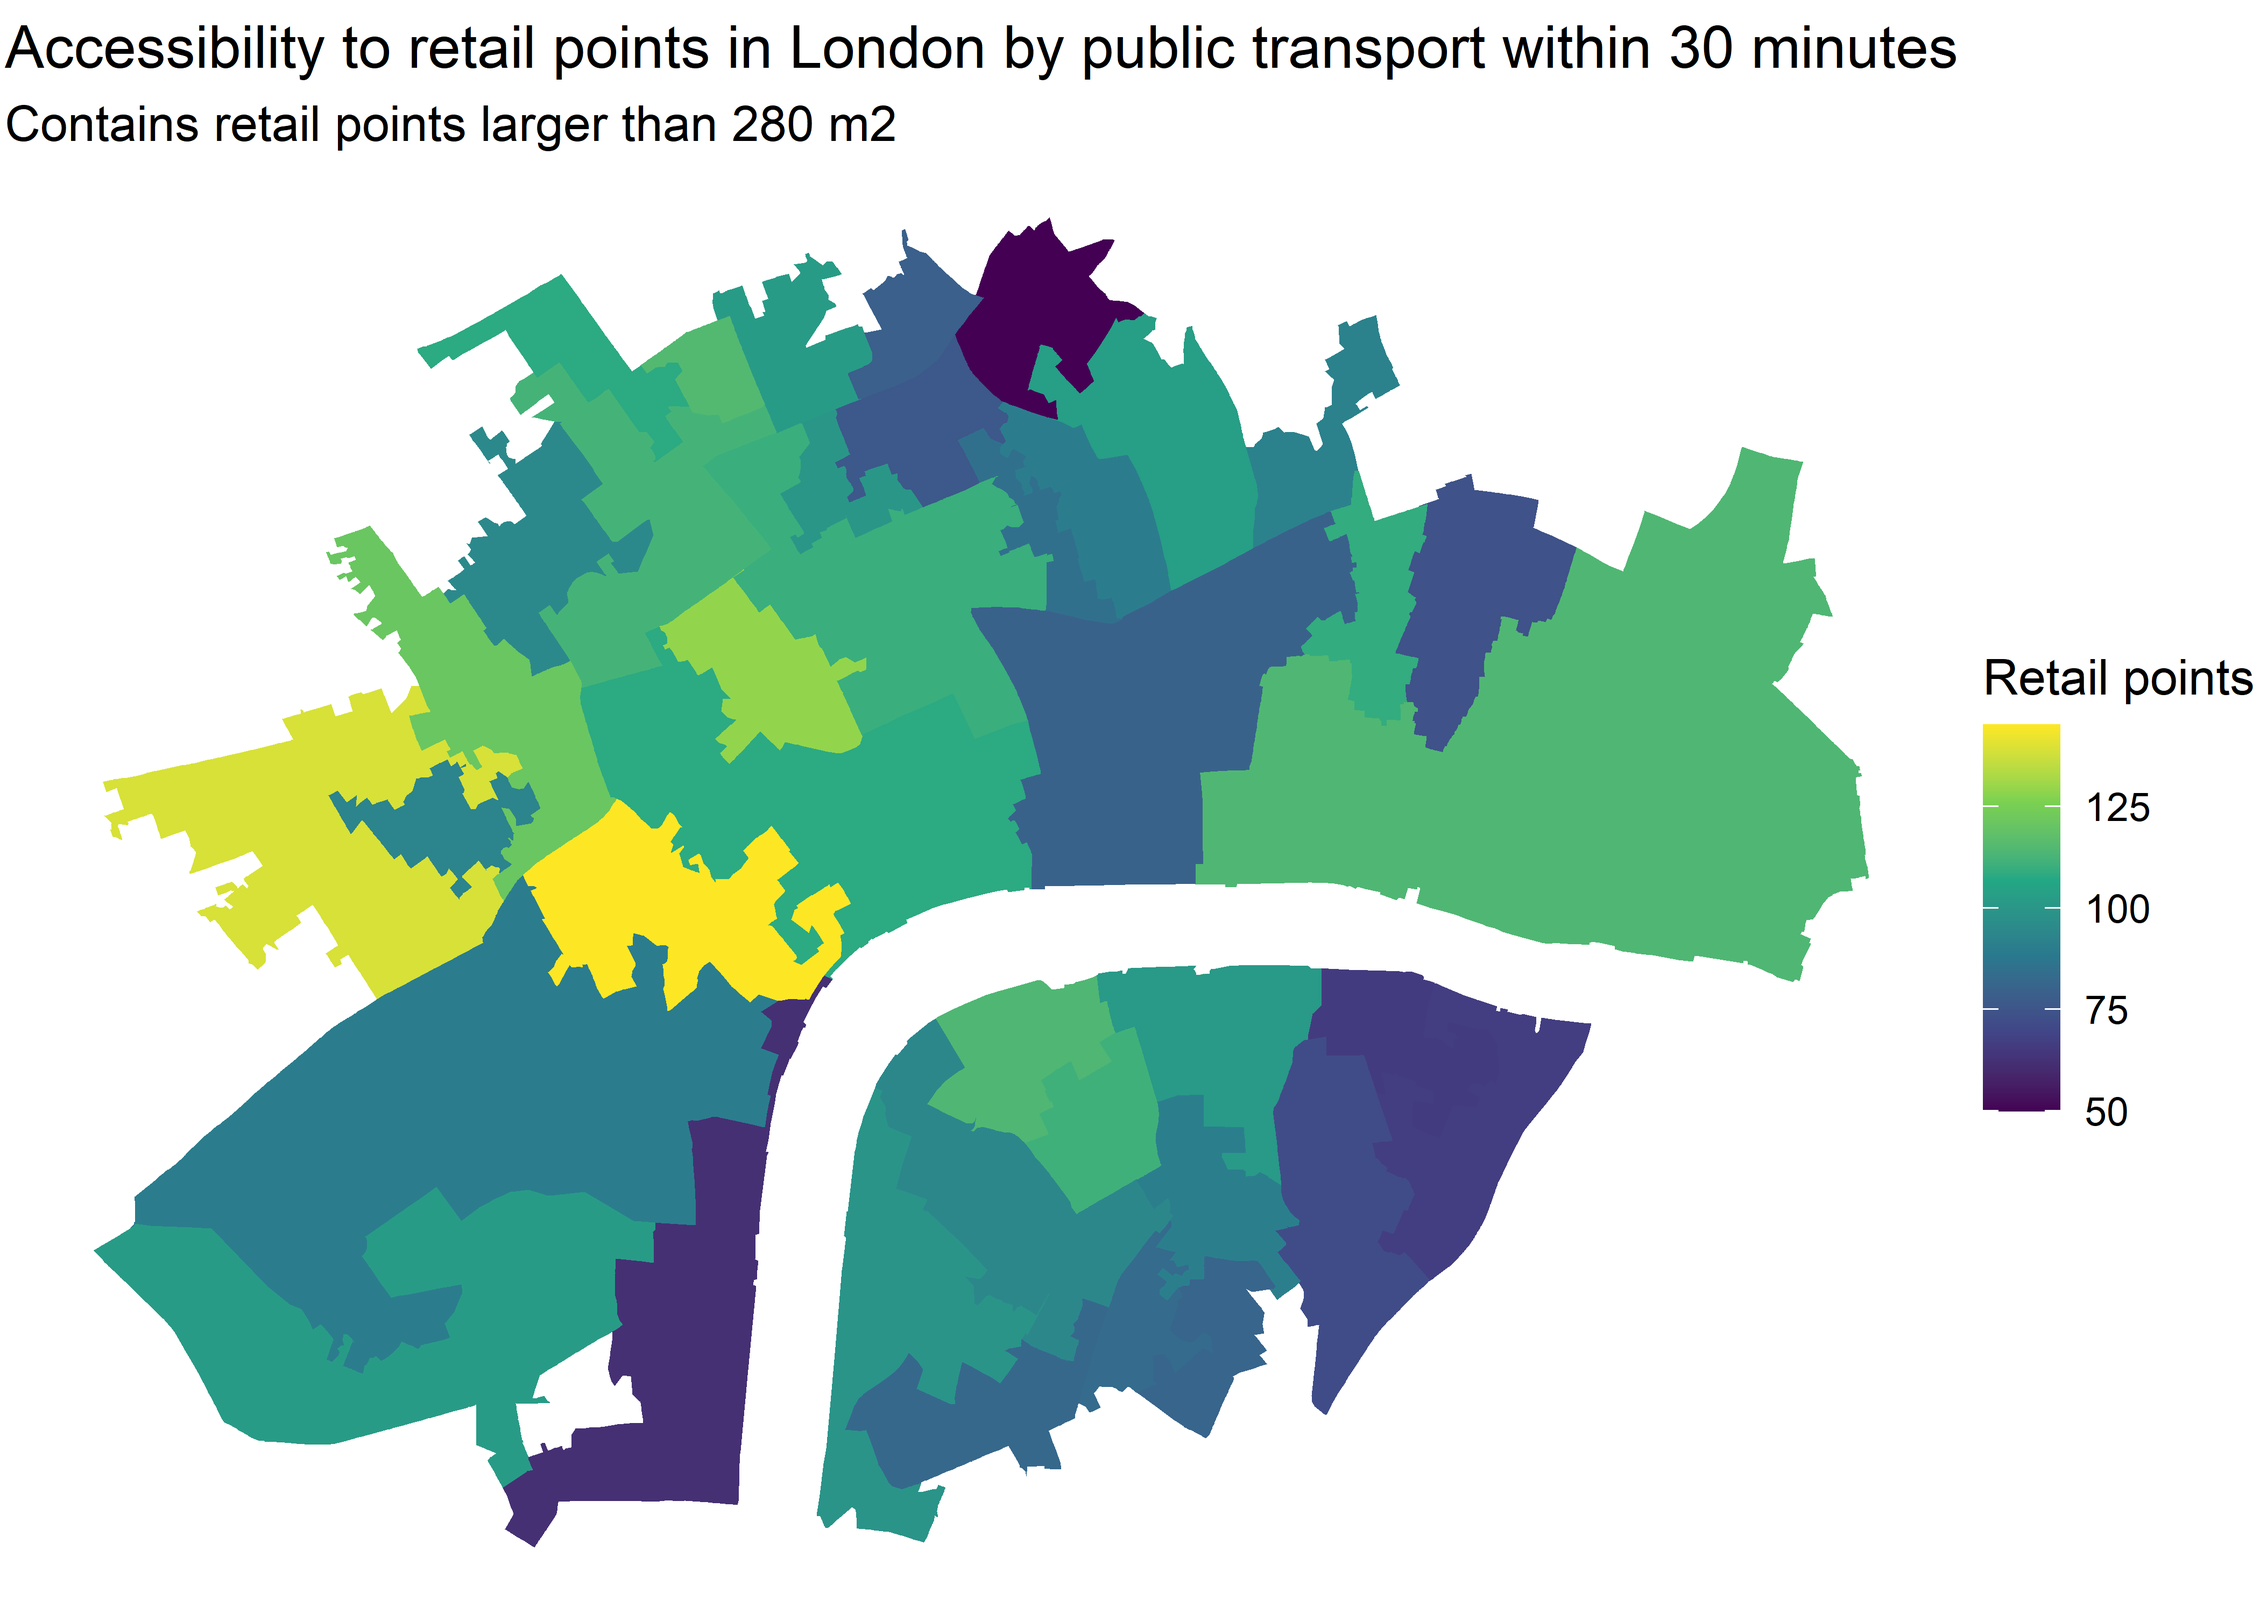
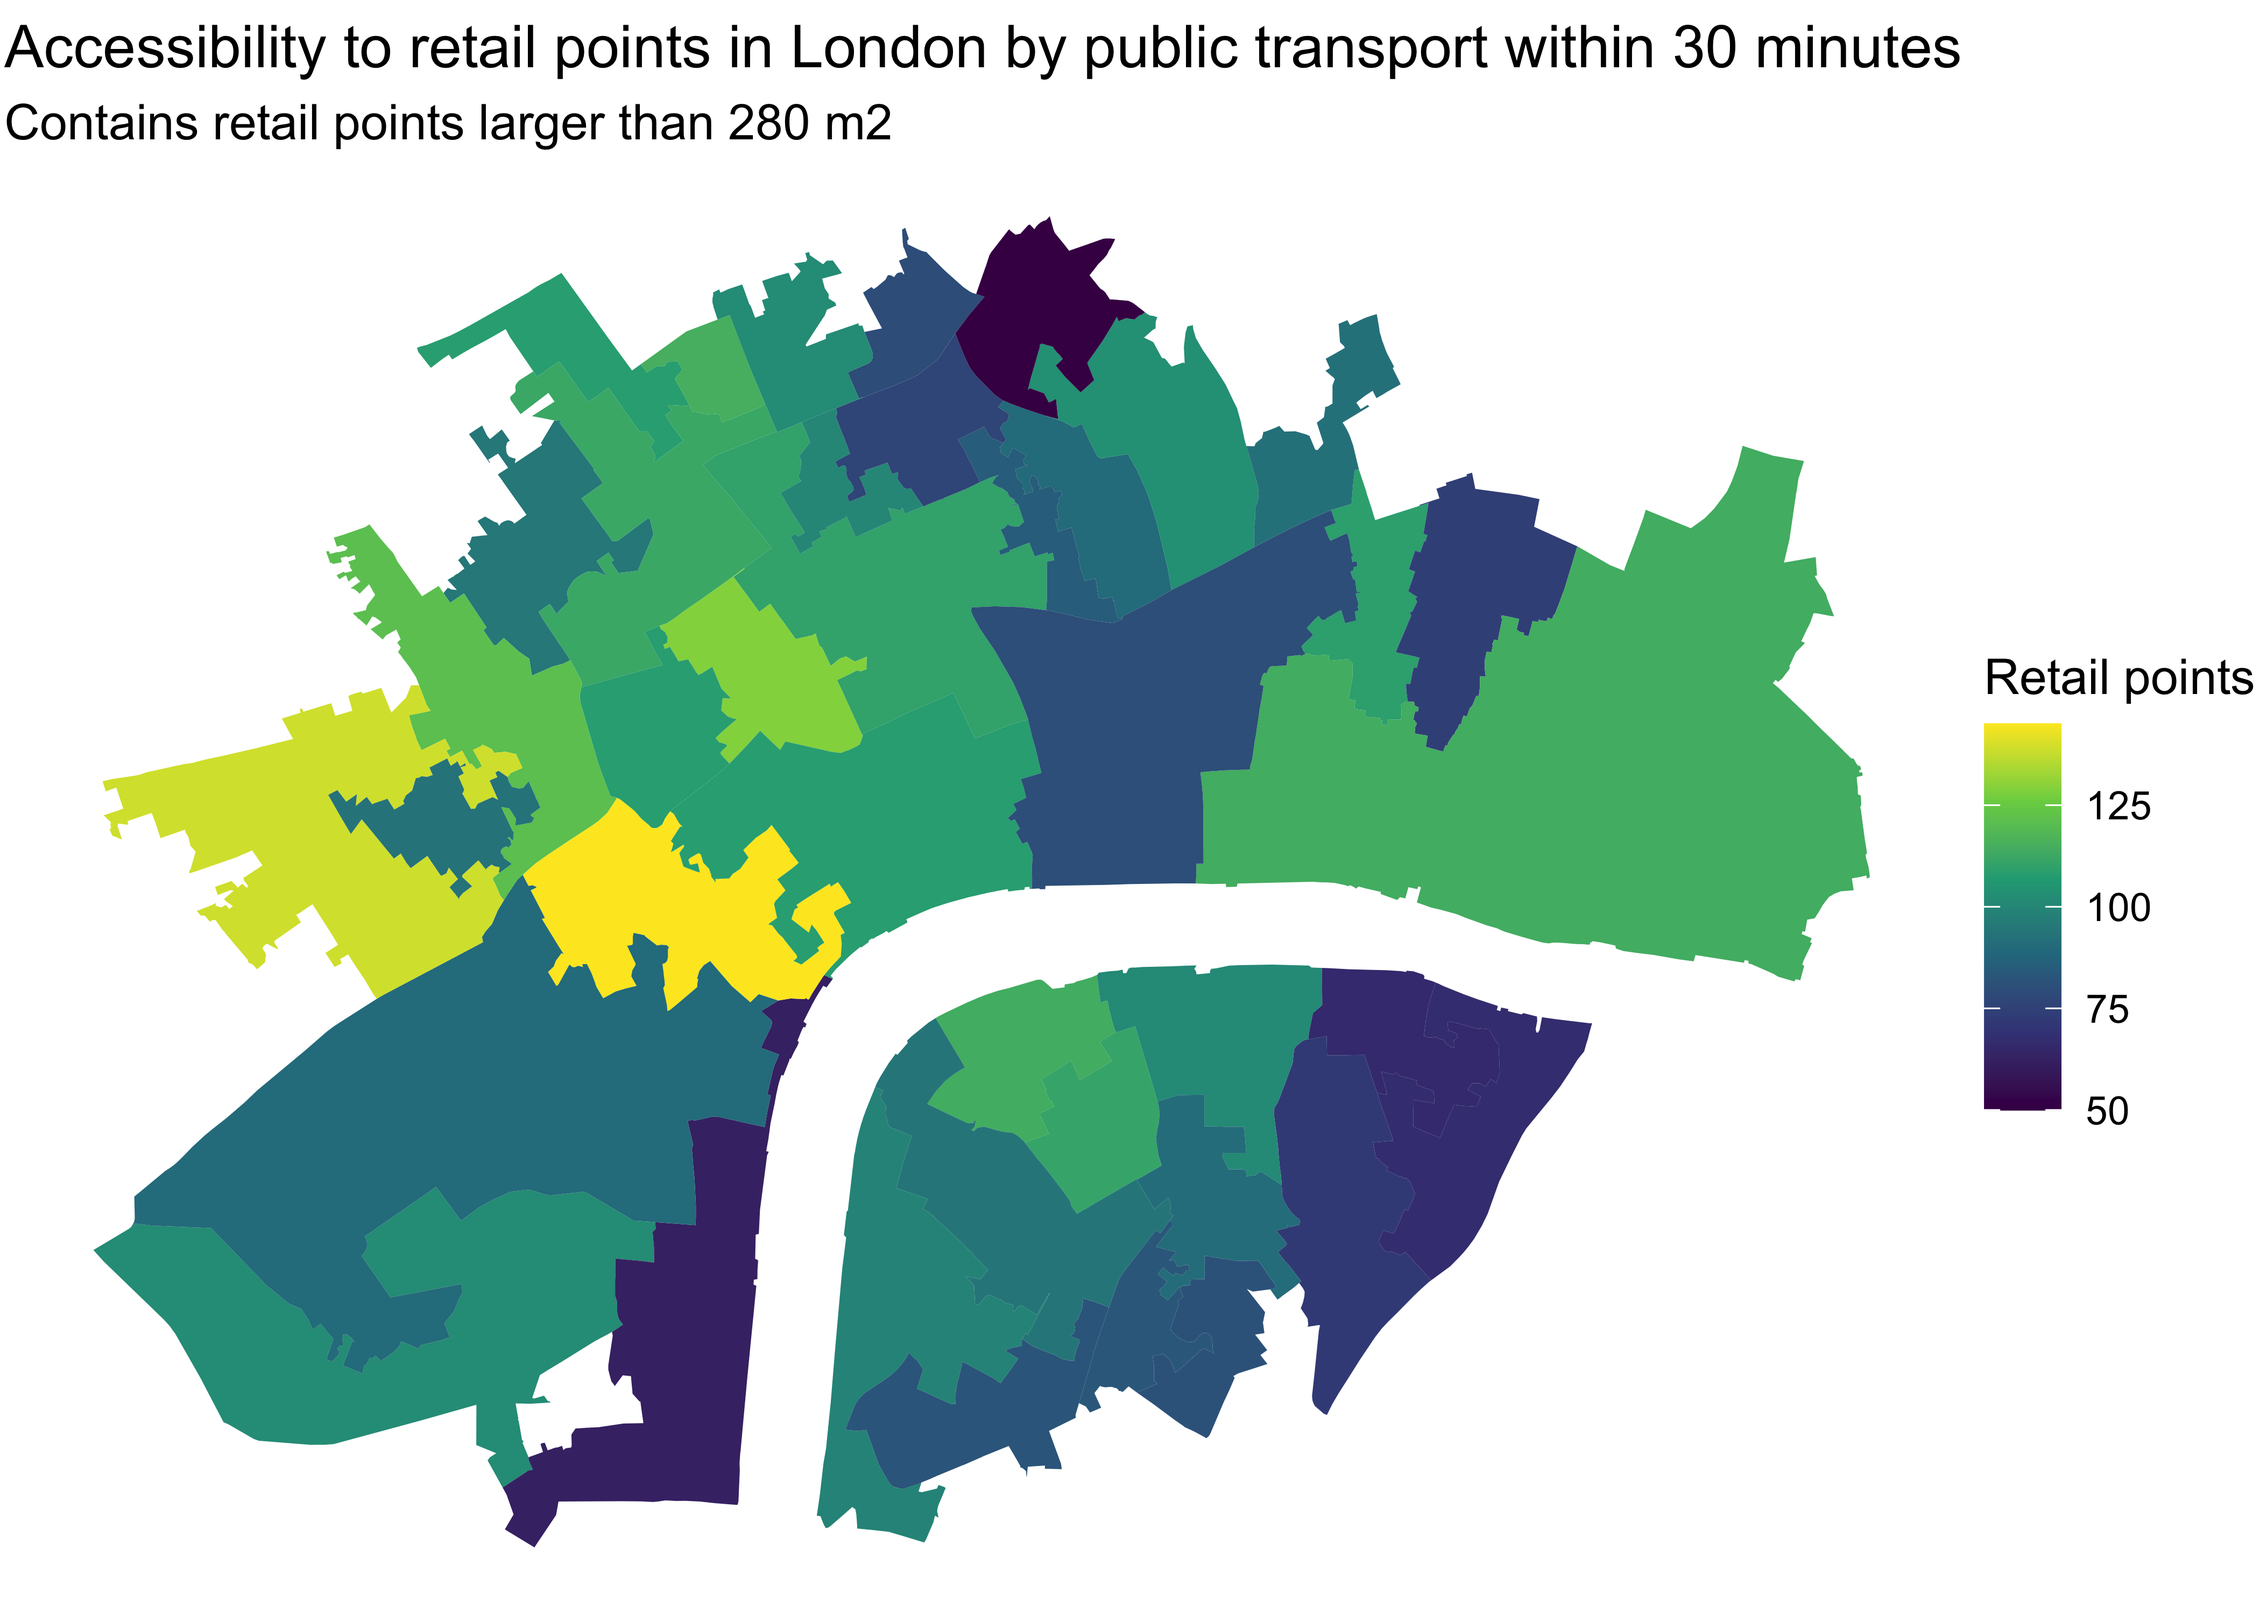
Readme updates. Small writing improvements, and increased clarity using numbered items.

Changed region(s): [[0.4055, 0.0, 0.8733, 0.062], [0.0, 0.062, 0.4055, 0.093], [0.8733, 0.403, 0.9981, 0.434]]

diff --git a/README.md b/README.md
@@ -8,13 +8,15 @@ experimental](https://img.shields.io/badge/lifecycle-experimental-orange.svg)](h
 
 `AccessUK` is an open-source tool for the R programming language
 designed to streamline the integration of accessibility measures into R
-workflows focusing on Great Britain (GB), thereby unlocking the
-potential of spatial data by informing decision-making processes and
-supporting sustainable practices across diverse sectors.
+workflows focusing on Great Britain (GB). It unlocks the potential of
+spatial data by informing decision-making processes and supporting
+practices across diverse sectors, without the inherited complexities and
+technical demands.
 
 The main aim of this tool is to manage and distribute a series of
 pre-computed Accessibility-related measures for small geographic areas
-in GB described
+in GB, i.e. every LSOA/Data Zone in England, Wales, and Scotland. The
+underlying data is described
 [here](https://www.nature.com/articles/s41597-023-02890-w) (PTAI
 dataset). The pre-computed measures include accessibility to employmnet,
 heath, education, food services, and urban centres. It offers additional
@@ -51,12 +53,14 @@ devtools::install_github("urbanbigdatacentre/AccessUK")
 
 ## Usage
 
-`AccessUK` does three main things: (1) get ready-to-use accessibility
-measures for a range of urban and regional services; (2) tailor
-accessibility measures to destinations not previously included in the
-dataset based on pre-computed travel matrices; (3) estimate new
-accessibility measures based on user-generated TTMs and service
-locations.
+`AccessUK` does three main things:
+
+1.  Get ready-to-use accessibility measures for a range of urban and
+    regional services;
+2.  Tailor accessibility measures to destinations not previously
+    included in the dataset based on pre-computed travel matrices;
+3.  Estimate new accessibility measures based on user-generated TTMs and
+    service locations.
 
 ``` r
 library(AccessUK)
@@ -86,6 +90,7 @@ accessibility_london <- get_accessibility(
   service = 'employment', 
   mode = "public_transport"
 )
+
 glimpse(accessibility_london)
 ## Rows: 40
 ## Columns: 18
@@ -137,6 +142,9 @@ retail_accessibility <- my_accessibility(
 )
 ## Warning: attribute variables are assumed to be spatially constant throughout
 ## all geometries
+```
+
+``` r
 
 glimpse(retail_accessibility)
 ## Rows: 41,729
@@ -155,13 +163,17 @@ central London.
 # Read LSOA geometries
 lsoa_geoms <- st_read(file.path(data_dir, 'lsoa_geoms/infuse_lsoa_lyr_2011_clipped.shp'))
 ## Reading layer `infuse_lsoa_lyr_2011_clipped' from data source 
-##   `C:\Users\jvt3d\AppData\Local\Programs\R\R-4.3.0\library\AccessUK\data\lsoa_geoms\infuse_lsoa_lyr_2011_clipped.shp' 
+##   `/Library/Frameworks/R.framework/Versions/4.4-arm64/Resources/library/AccessUK/data/lsoa_geoms/infuse_lsoa_lyr_2011_clipped.shp' 
 ##   using driver `ESRI Shapefile'
 ## Simple feature collection with 42619 features and 3 fields
 ## Geometry type: MULTIPOLYGON
 ## Dimension:     XY
 ## Bounding box:  xmin: -69.1254 ymin: 5337.9 xmax: 655604.7 ymax: 1220302
 ## Projected CRS: OSGB36 / British National Grid
+```
+
+``` r
+
 # Map
 retail_accessibility %>% 
   filter(from_id %in% lsoa_london) %>% 
@@ -195,6 +207,9 @@ aggregated_retail <- retail_points %>%
   my_accessibility(0)
 ## Warning: attribute variables are assumed to be spatially constant throughout
 ## all geometries
+```
+
+``` r
 # First column as 'id'
 aggregated_retail <- aggregated_retail %>% 
   rename(retail = access_n_0, id = from_id)
@@ -209,6 +224,7 @@ new_accessibility <- estimate_accessibility(
   weights = aggregated_retail, 
   time_cut = timecuts
 )
+
 glimpse(new_accessibility)
 ## Rows: 41,729
 ## Columns: 4
